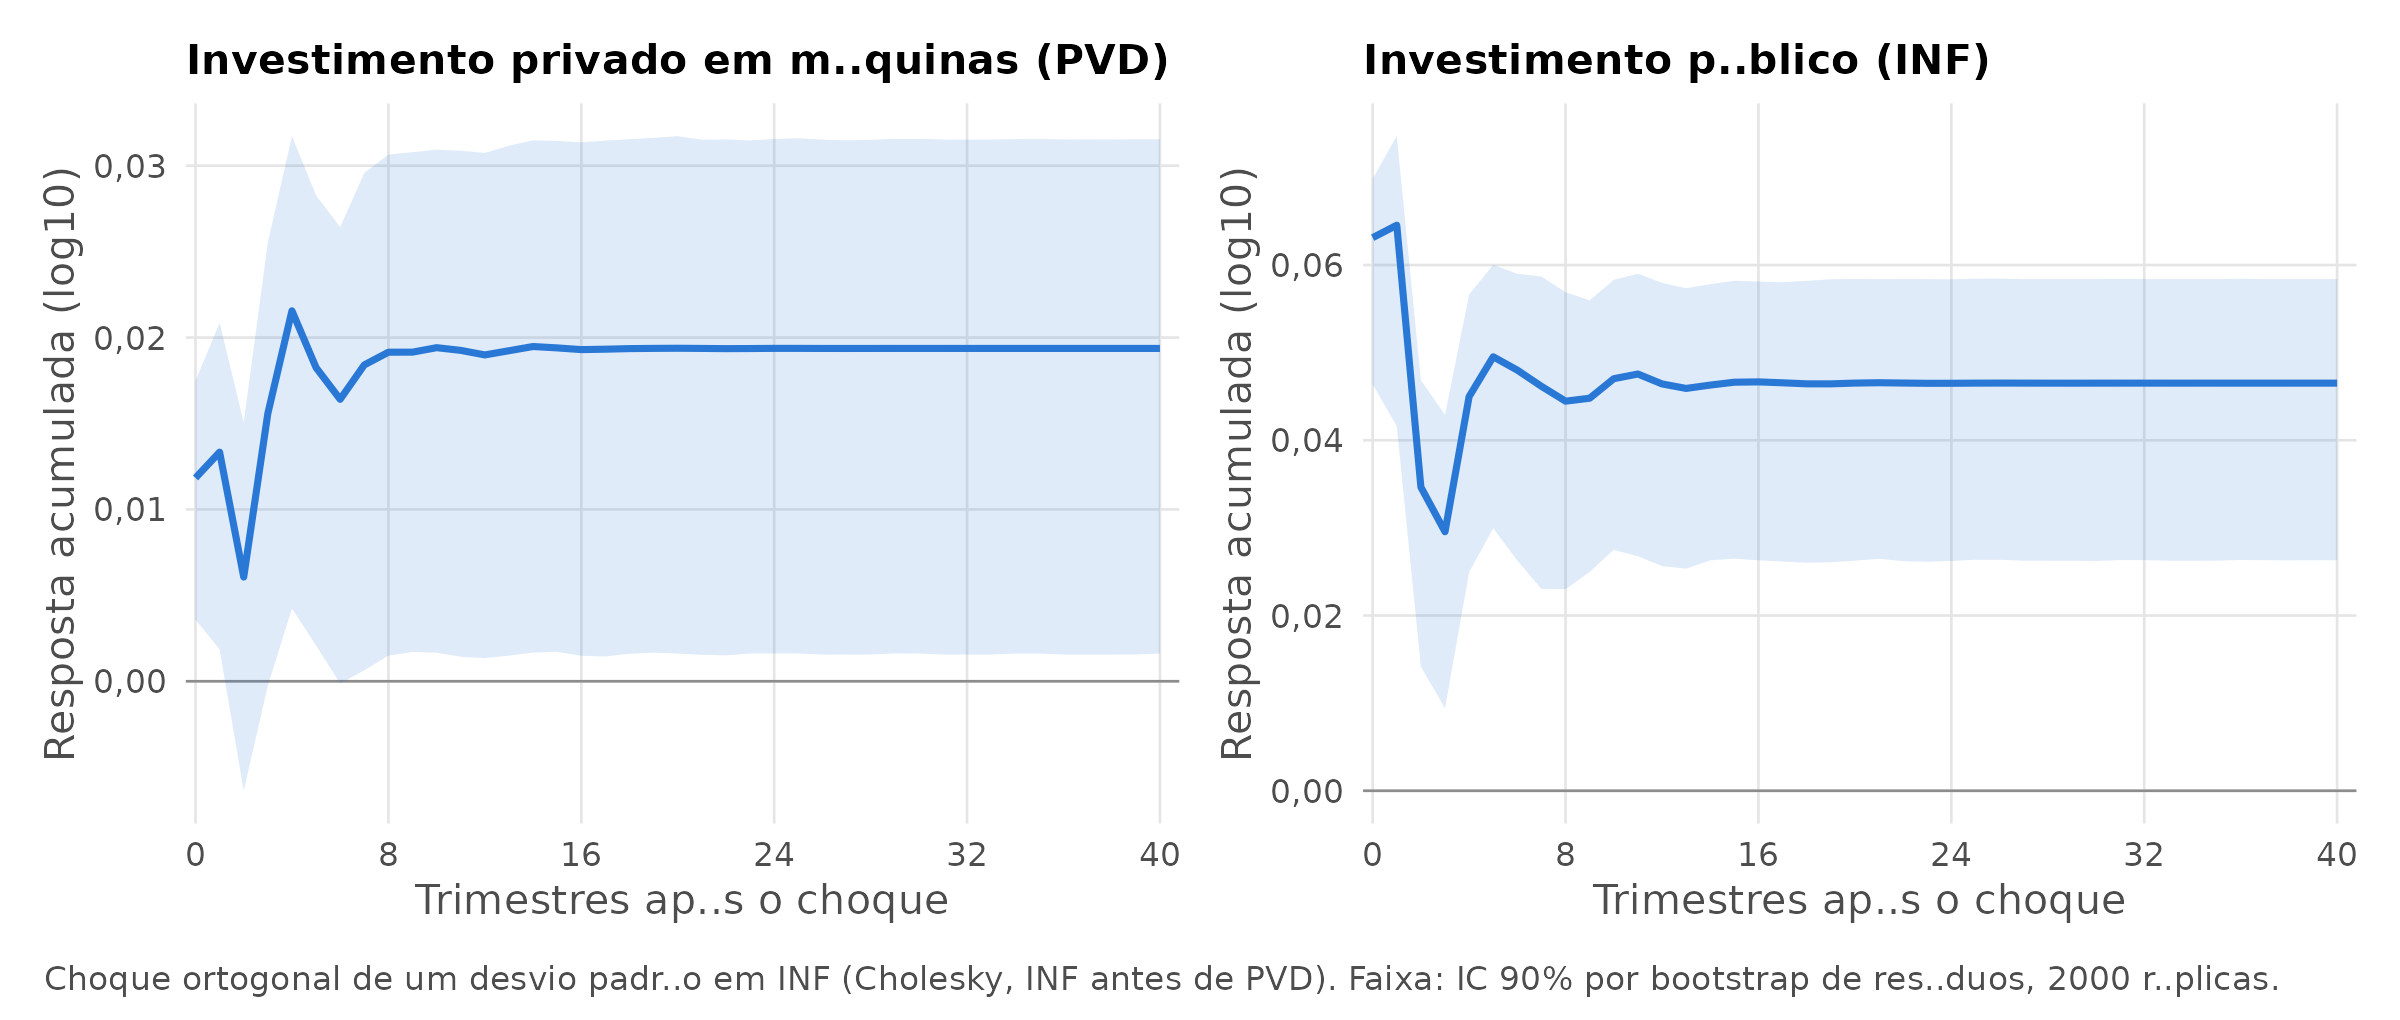
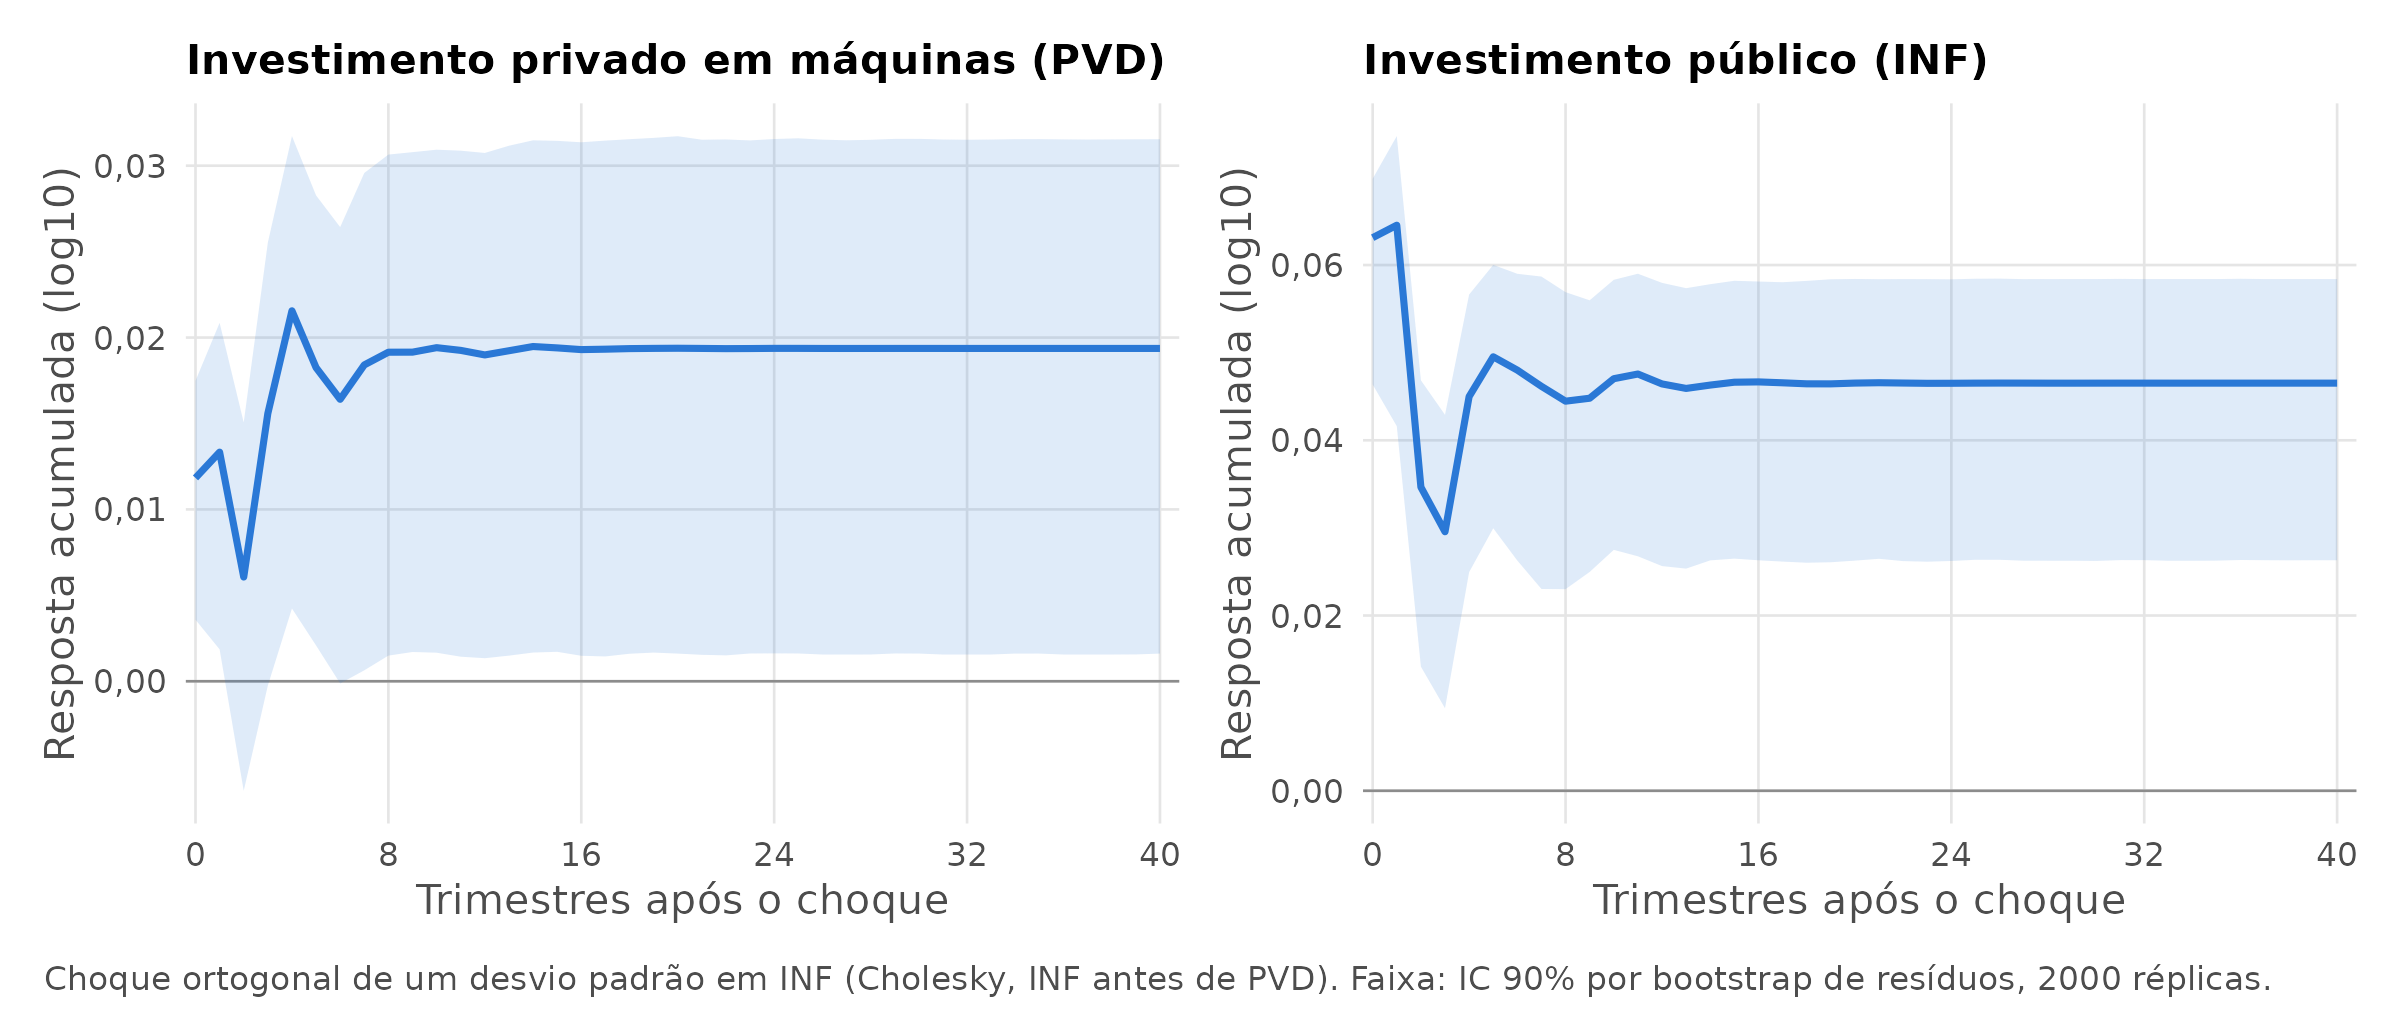
crowding_in_code: registra idioma do resumo estendido e WIP do fluxo
Claude-Session: https://claude.ai/code/session_01VoKdywMmKj5r2qFgNCxzaa

diff --git a/crowding_in_code/results/log_parts/A1.md b/crowding_in_code/results/log_parts/A1.md
@@ -1,13 +1,14 @@
-### A1 (execucao de 2026-09-28 19:48)
+### A1 (execucao de 2026-09-28 19:49)
 - Dados: data/original/0224_tri_estmeq.txt (INF e PVD em log10) e data/original/0124_inexo.txt (PIB em variacao trimestral, JUR = Selic, DUM). 72 linhas cada, sem coluna de data; datas atribuidas de 2002Q1 a 2019Q4, como no Rmd (ts com start = c(2002, 1)).
-- Alinhamento das datas conferido com data/dados_dissertacao_apendiceA.csv (coluna trimestre 2002Q1 a 2019Q4): diferenca maxima Selic x JUR = 0; PIB x cpib_pct/100 = 0,00000000000000000347; correlacao entre diff(log10(imeq_indice)) e diff(PVD) = 1,0000.
+- Alinhamento das datas conferido com data/dados_dissertacao_apendiceA.csv (coluna trimestre 2002Q1 a 2019Q4): diferenca maxima Selic x JUR = 0,0e+00; PIB x cpib_pct/100 = 3,5e-18; correlacao entre diff(log10(imeq_indice)) e diff(PVD) = 1,0000.
 - Dummy DUM = 1 no arquivo em 2018Q2-2019Q1 e 2019Q3-2019Q4 (6 trimestres). Confere com o esperado (2018Q2-2019Q1 e 2019Q3-2019Q4). Com exogen = diff(exo) a dummy vira pulsos: 2018Q2: +1; 2019Q2: -1; 2019Q3: +1.
 - data/original/0124_tri_estmeq.txt e 0224_inexo.txt nao entram no modelo final: o primeiro nao e a diferenca do 0224_tri_estmeq; o segundo tem PIB em log, JUR, CAM e DUM (nele exo[, 3] seria CAM).
 - Baseline: vars::VAR(diff(infmeq), p = 3, type = "both", exogen = diff(exo)); 68 observacoes efetivas (2003Q1 a 2019Q4). Ordem de Cholesky: INF, PVD.
-- Bootstrap do vars: irf(impulse = "INF", response = c("INF", "PVD"), n.ahead = 40, cumulative = TRUE, boot = TRUE, runs = 2000, ci = 0,90, seed = 42); 14 s. IC 90% da resposta acumulada de PVD em h = 40: [0,0016; 0,0315].
+- Bootstrap do vars: irf(impulse = "INF", response = c("INF", "PVD"), n.ahead = 40, cumulative = TRUE, boot = TRUE, runs = 2000, ci = 0,90, seed = 42); 13 s. IC 90% da resposta acumulada de PVD em h = 40: [0,0016; 0,0315].
 - Bootstrap proprio de residuos (2000 replicas; recursivo; constante, tendencia e exogenas fixas; 3 valores iniciais observados; residuos centrados; set.seed(42) e mesmos sorteios de vars:::.boot). Percentis 5% e 95% das respostas acumuladas em h = 40 coincidem com as bandas do irf(), o que confere a implementacao. Replicas em data/processed/A1_bootstrap.csv.
 - Elasticidade de longo prazo (razao das respostas acumuladas de PVD e INF em h = 40): 0,4163; IC 90% percentil [0,05; 0,66] com 2000 replicas (Python, 500 replicas: [0,07; 0,67]). Replicas com elasticidade negativa: 3,3%; com resposta acumulada de INF <= 0: 0,0%.
 - Diagnosticos (H0 de cada teste: ausencia de autocorrelacao, de ARCH, normalidade): Portmanteau assintotico (lags.pt = 16): estat. 44,79, p = 0,7506; Portmanteau ajustado (lags.pt = 16): estat. 52,34, p = 0,4606; Breusch-Godfrey LM (lags.bg = 5): estat. 41,81, p = 0,0029; Edgerton-Shukur F (lags.bg = 5): estat. 2,10, p = 0,0093; ARCH-LM multivariado (lags.multi = 5): estat. 42,23, p = 0,5899; Jarque-Bera multivariado: estat. 18,03, p = 0,0012; Assimetria multivariada: estat. 5,44, p = 0,0659; Curtose multivariada: estat. 12,59, p = 0,0018; Jarque-Bera univariado, INF: estat. 15,10, p = 0,0005; Jarque-Bera univariado, PVD: estat. 3,63, p = 0,1632.
+- Leitura: Portmanteau (16 defasagens) nao rejeita ausencia de autocorrelacao; BG e ES com 5 defasagens rejeitam a 1%. p-valor do BG por numero de defasagens: 1: 0,003; 2: 0,002; 3: 0,008; 4: 0,001; 5: 0,003; 6: 0,001; 7: 0,002; 8: 0,003. ARCH nao rejeitado. Normalidade rejeitada, pela curtose e pela equacao de INF; a de PVD nao rejeita.
 - No Rmd, serial.test(type = "BG"/"ES") foi chamado com lags.pt = 16, que esses testes ignoram; o lag efetivo era o padrao lags.bg = 5, o mesmo usado aqui. ARCH multivariado com lags.multi = 5 (padrao do vars, o mesmo do Rmd).
 - Raizes do polinomio caracteristico (modulos): 0,7358, 0,7358, 0,6939, 0,6939, 0,6697, 0,5632. Todas menores que 1: sim.
 - VARselect(lag.max = 8, type = "both", exogen = diff(exo)): AIC = 3, HQ = 3, SC = 2, FPE = 3. p = 3 e a escolha de AIC, HQ e FPE; SC prefere 2.
@@ -26,11 +27,11 @@
 - Alvo: corr(u_INF, u_PVD): alvo 0,405, obtido 0,4056 (0,405648); reproduz: sim, por truncamento (arredondado: 0,406).
 - Alvo: Granger INF -> PVD, VAR em diferenca, F: alvo 3,27, obtido 3,2710 (3,27095); reproduz: sim.
 - Alvo: Granger INF -> PVD, VAR em diferenca, p: alvo 0,024, obtido 0,0238 (0,0238242); reproduz: sim.
-- Alvo: Granger PVD -> INF, VAR em diferenca, F: alvo 1,91, obtido 1,2694 ( 1,2694); reproduz: nao.
+- Alvo: Granger PVD -> INF, VAR em diferenca, F: alvo 1,91, obtido 1,2694 (1,2694); reproduz: nao.
 - Alvo: Granger PVD -> INF, VAR em diferenca, p: alvo 0,13, obtido 0,2883 (0,288303); reproduz: nao.
 - Alvo: Granger PVD -> INF, VAR em nivel, F: alvo 1,91, obtido 1,9088 (1,90879); reproduz: sim.
 - Alvo: Granger PVD -> INF, VAR em nivel, p: alvo 0,13, obtido 0,1320 (0,13201); reproduz: sim.
-- Alvo: Johansen, traco r = 0 (config. do Rmd): alvo 25,01, obtido 25,0060 ( 25,006); reproduz: sim.
-- Alvo: Johansen, valor critico 5% r = 0: alvo 25,32, obtido 25,3200 (  25,32); reproduz: sim.
+- Alvo: Johansen, traco r = 0 (config. do Rmd): alvo 25,01, obtido 25,0060 (25,006); reproduz: sim.
+- Alvo: Johansen, valor critico 5% r = 0: alvo 25,32, obtido 25,3200 (25,32); reproduz: sim.
 - Os alvos da matriz de covariancia (0,0039; 0,0008; 0,405) batem so por truncamento: arredondando, seriam 0,0040; 0,0009 e 0,406. As medidas de resposta ao impulso batem por arredondamento.
-- Saidas: results/A1_replica.md, results/A1_replica.tex, results/figuras/A1_irf_acumulada.png e .pdf, data/processed/A1_bootstrap.csv, data/processed/A1_irf_acumulada.csv. Tempo total: 29 s.
+- Saidas: results/A1_replica.md, results/A1_replica.tex, results/figuras/A1_irf_acumulada.png e .pdf, data/processed/A1_bootstrap.csv, data/processed/A1_irf_acumulada.csv. Tempo total: 27 s.

diff --git a/crowding_in_code/results/A1_replica.md b/crowding_in_code/results/A1_replica.md
@@ -1,12 +1,12 @@
 # A1. Replica em R do modelo final da dissertacao
 
-Gerado por `R/A1_replica.R` em 2026-09-28 19:48. Numeros com virgula decimal. Respostas em log10 (os dados estao em log10).
+Gerado por `R/A1_replica.R` em 2026-09-28 19:50. Numeros com virgula decimal. Respostas em log10 (os dados estao em log10).
 
 ## Especificacao
 
 - Dados: `data/original/0224_tri_estmeq.txt` (INF e PVD em log10) e `data/original/0124_inexo.txt` (PIB em variacao trimestral, JUR = Selic, DUM), 72 trimestres de 2002Q1 a 2019Q4.
 - Modelo: `vars::VAR(diff(infmeq), p = 3, type = "both", exogen = diff(exo))`, 68 observacoes efetivas (2003Q1 a 2019Q4). Choque ortogonal por Cholesky com INF antes de PVD.
-- Datas conferidas com `data/dados_dissertacao_apendiceA.csv` (que tem a coluna de trimestre): Selic identica ao JUR (diferenca maxima 0), PIB identico a cpib_pct/100, correlacao de diff(log10(imeq_indice)) com diff(PVD) = 1,0000.
+- Datas conferidas com `data/dados_dissertacao_apendiceA.csv` (que tem a coluna de trimestre): Selic identica ao JUR (diferenca maxima 0,0e+00), PIB identico a cpib_pct/100 (diferenca maxima 3,5e-18), correlacao de diff(log10(imeq_indice)) com diff(PVD) = 1,0000.
 - Dummy: DUM = 1 em 2018Q2-2019Q1 e 2019Q3-2019Q4. Confere com o esperado. Em diferenca vira pulsos (2018Q2: +1; 2019Q2: -1; 2019Q3: +1).
 
 ## Comparacao com os alvos
@@ -23,12 +23,12 @@ Gerado por `R/A1_replica.R` em 2026-09-28 19:48. Numeros com virgula decimal. Re
 | corr(u_INF, u_PVD) | 0,405 | 0,4056 | 0,405648 | sim, por truncamento (arredondado: 0,406) |
 | Granger INF -> PVD, VAR em diferenca, F | 3,27 | 3,2710 | 3,27095 | sim |
 | Granger INF -> PVD, VAR em diferenca, p | 0,024 | 0,0238 | 0,0238242 | sim |
-| Granger PVD -> INF, VAR em diferenca, F | 1,91 | 1,2694 |  1,2694 | nao |
+| Granger PVD -> INF, VAR em diferenca, F | 1,91 | 1,2694 | 1,2694 | nao |
 | Granger PVD -> INF, VAR em diferenca, p | 0,13 | 0,2883 | 0,288303 | nao |
 | Granger PVD -> INF, VAR em nivel, F | 1,91 | 1,9088 | 1,90879 | sim |
 | Granger PVD -> INF, VAR em nivel, p | 0,13 | 0,1320 | 0,13201 | sim |
-| Johansen, traco r = 0 (config. do Rmd) | 25,01 | 25,0060 |  25,006 | sim |
-| Johansen, valor critico 5% r = 0 | 25,32 | 25,3200 |   25,32 | sim |
+| Johansen, traco r = 0 (config. do Rmd) | 25,01 | 25,0060 | 25,006 | sim |
+| Johansen, valor critico 5% r = 0 | 25,32 | 25,3200 | 25,32 | sim |
 
 Notas:
 
@@ -92,6 +92,19 @@ Correlacao dos residuos: 0,4056.
 | Jarque-Bera univariado, INF | 15,10 | 2 | 0,0005 | qui-quadrado |
 | Jarque-Bera univariado, PVD | 3,63 | 2 | 0,1632 | qui-quadrado |
 
+Leitura: o Portmanteau com 16 defasagens nao rejeita ausencia de autocorrelacao, mas BG e ES com 5 defasagens rejeitam a 1%. ARCH nao e rejeitado. Normalidade e rejeitada, pela curtose e pela equacao de INF; a equacao de PVD nao rejeita.
+
+| lags.bg | p-valor BG |
+|---|---|
+| 1 | 0,0032 |
+| 2 | 0,0018 |
+| 3 | 0,0080 |
+| 4 | 0,0015 |
+| 5 | 0,0029 |
+| 6 | 0,0006 |
+| 7 | 0,0017 |
+| 8 | 0,0026 |
+
 ARCH multivariado com lags.multi = 5 (padrao do vars, o mesmo usado no Rmd). No Rmd, BG e ES foram chamados com lags.pt = 16, que esses testes ignoram; o lag efetivo e lags.bg = 5.
 
 Raizes (modulos do polinomio caracteristico): 0,7358, 0,7358, 0,6939, 0,6939, 0,6697, 0,5632. Todas menores que 1: sim.
@@ -115,10 +128,10 @@ Selecao: AIC = 3, HQ = 3, SC = 2, FPE = 3.
 
 | Modelo | Hipotese | F | gl | p-valor |
 |---|---|---|---|---|
-| VAR em diferenca (baseline) | H0: INF -> PVD nao causa | 3,27 | 3 e 114 | 0,0238 |
-| VAR em diferenca (baseline) | H0: PVD -> INF nao causa | 1,27 | 3 e 114 | 0,2883 |
-| VAR em nivel, exo em nivel | H0: INF -> PVD nao causa | 2,92 | 3 e 116 | 0,0372 |
-| VAR em nivel, exo em nivel | H0: PVD -> INF nao causa | 1,91 | 3 e 116 | 0,1320 |
+| VAR em diferenca (baseline) | H0: INF nao Granger-causa PVD | 3,27 | 3 e 114 | 0,0238 |
+| VAR em diferenca (baseline) | H0: PVD nao Granger-causa INF | 1,27 | 3 e 114 | 0,2883 |
+| VAR em nivel, exo em nivel | H0: INF nao Granger-causa PVD | 2,92 | 3 e 116 | 0,0372 |
+| VAR em nivel, exo em nivel | H0: PVD nao Granger-causa INF | 1,91 | 3 e 116 | 0,1320 |
 
 VAR em nivel: `VAR(infmeq, p = 3, type = "both", exogen = exo)`, a chamada do Rmd (`var.est`). Os graus de liberdade 3 e 116 coincidem com os da Tabela 12 da dissertacao.
 

diff --git a/crowding_in_code/results/log_parts/A0_ambiente.md b/crowding_in_code/results/log_parts/A0_ambiente.md
@@ -9,3 +9,4 @@
 - data/original e data/raw ficaram somente leitura no conteiner; R/00_setup.R bloqueia escrita nelas.
 - 2026-09-28: o autor aprovou a classificacao dos segmentos da SEST: petroleo = "Oil, gas & derivatives"; economica = Electricity, Transport, Port administration, Airport administration; outras = Financial, Commerce & services, Industry, Research, development & planning, Food supply.
 - 2026-09-28: o autor pediu tambem uma saida em formato de resumo estendido (extended abstract) para Halle. Entra na A6 como results/A_extended_abstract.tex (e PDF), em ingles por ser workshop internacional, seguindo as diretrizes de estilo do autor; A_numeros_halle.md continua so com numeros. LaTeX (texlive) instalado no conteiner para compilar.
+- 2026-09-28: resumo estendido confirmado em ingles pelo autor. O texto da dissertacao (PDF/docx, com as referencias teoricas) nao esta no conteiner; pedido ao autor. Ate chegar, o rascunho usa so as referencias metodologicas do briefing e marca os pontos que dependem do texto original.
